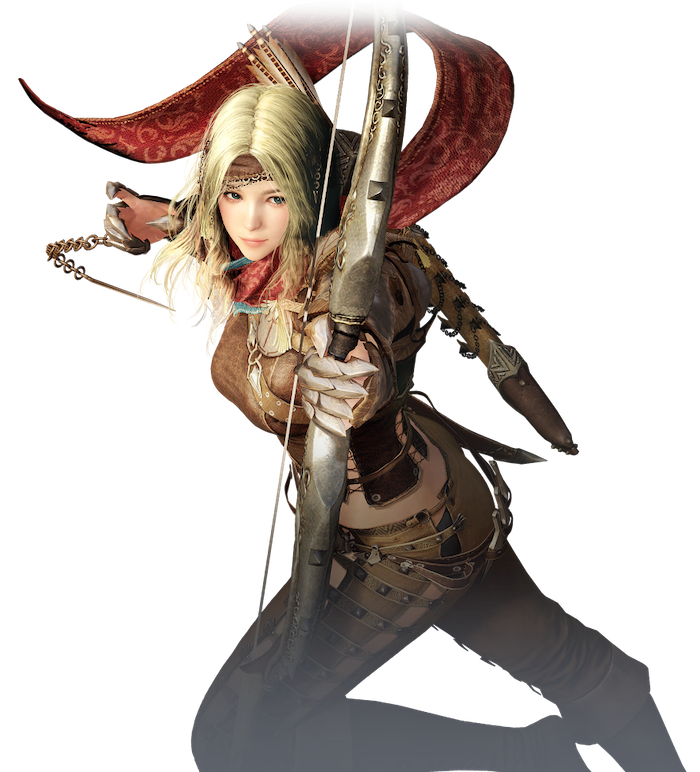
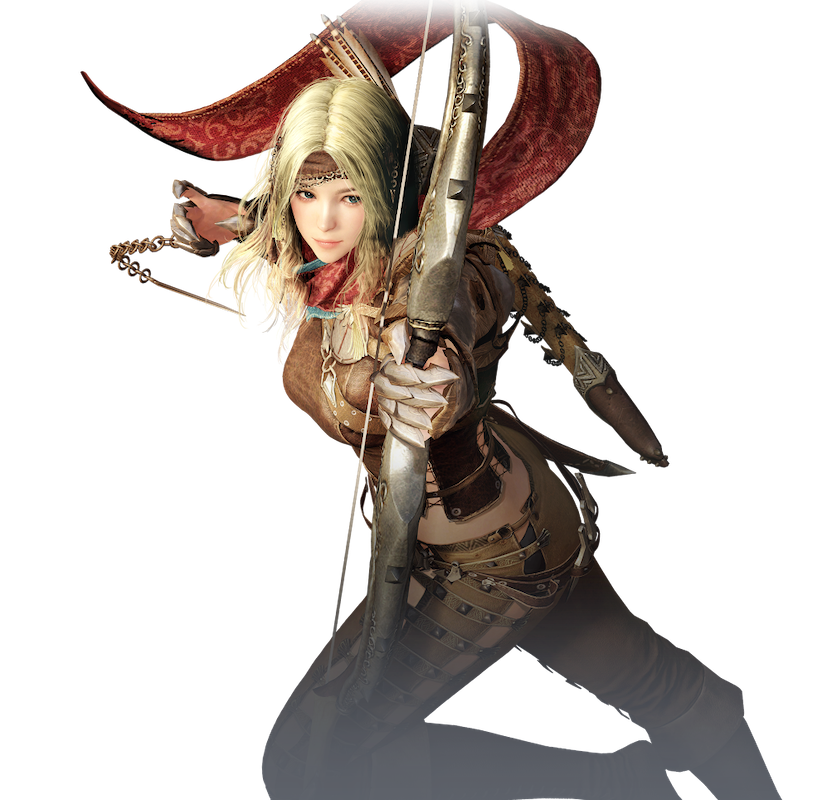
Add footer and fix overflowing image

diff --git a/src/App.vue b/src/App.vue
@@ -2,18 +2,21 @@
   <div id="app">
     <Header />
     <Main />
+    <Footer />
   </div>
 </template>
 
 <script>
 import Header from "@/components/Header.vue";
 import Main from "@/components/Main.vue";
+import Footer from "@/components/Footer.vue";
 
 export default {
   name: "App",
   components: {
     Header,
-    Main
+    Main,
+    Footer
   }
 };
 </script>
@@ -26,5 +29,6 @@ html, body, #app {
 #app {
   background: url(~@/assets/ranger_bg.jpg) no-repeat;
   background-size: cover;
+  overflow: hidden;
 }
 </style>

diff --git a/src/components/Footer.vue b/src/components/Footer.vue
@@ -1,0 +1,17 @@
+<template>
+  <footer>
+    <b-container fluid="xl">
+      <p>This site is not affiliated with Pearl Abyss or Kakao Games. <br>
+      All Black Desert Mobile media and content are registered trademark of Pearl Abyss & Kakao Games.</p>
+    </b-container>
+  </footer>
+</template>
+
+<style scoped>
+footer {
+  position: relative;
+  z-index: 2;
+  text-align: center;
+  color: #ccc;
+}
+</style>

diff --git a/src/components/Main.vue b/src/components/Main.vue
@@ -74,7 +74,6 @@ main {
   position: absolute;
   top: 0;
   left: -200px;
-  /* max-width: 700px; */
   z-index: 0;
 }
 
